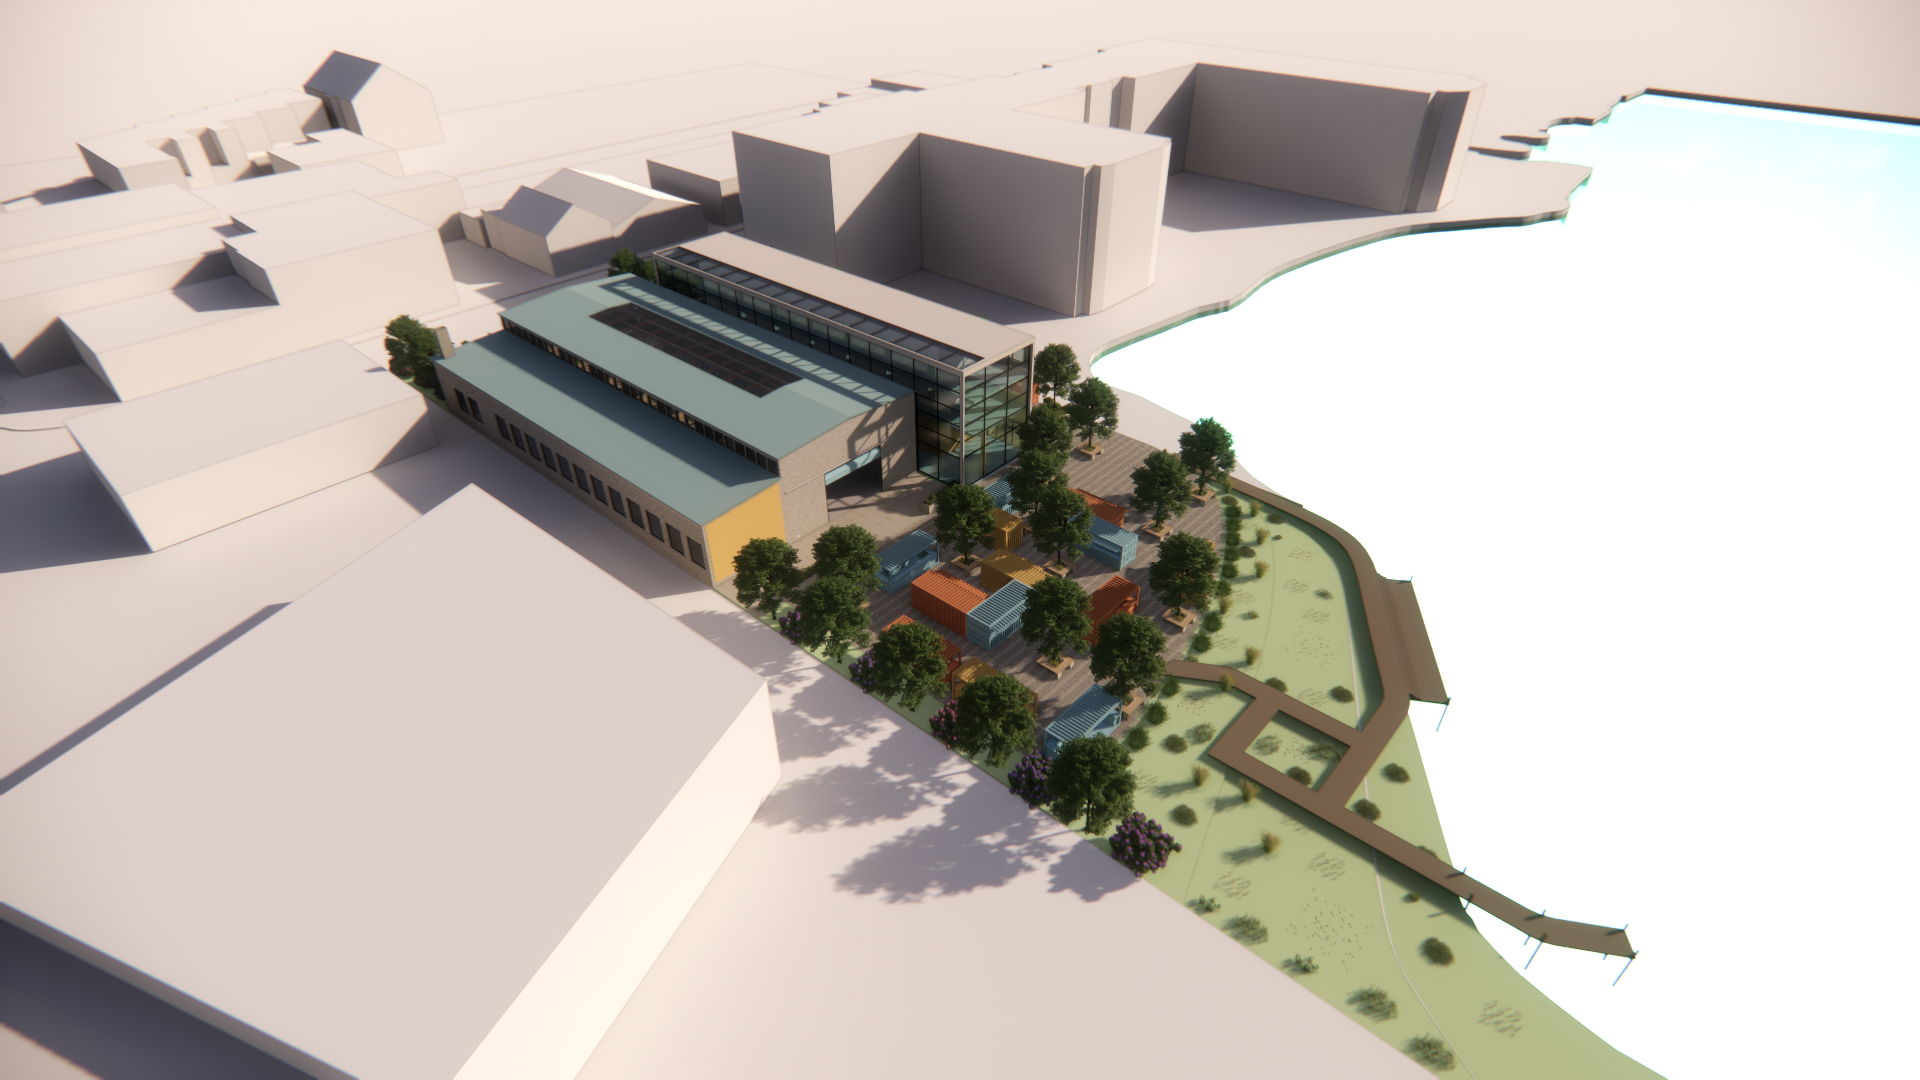
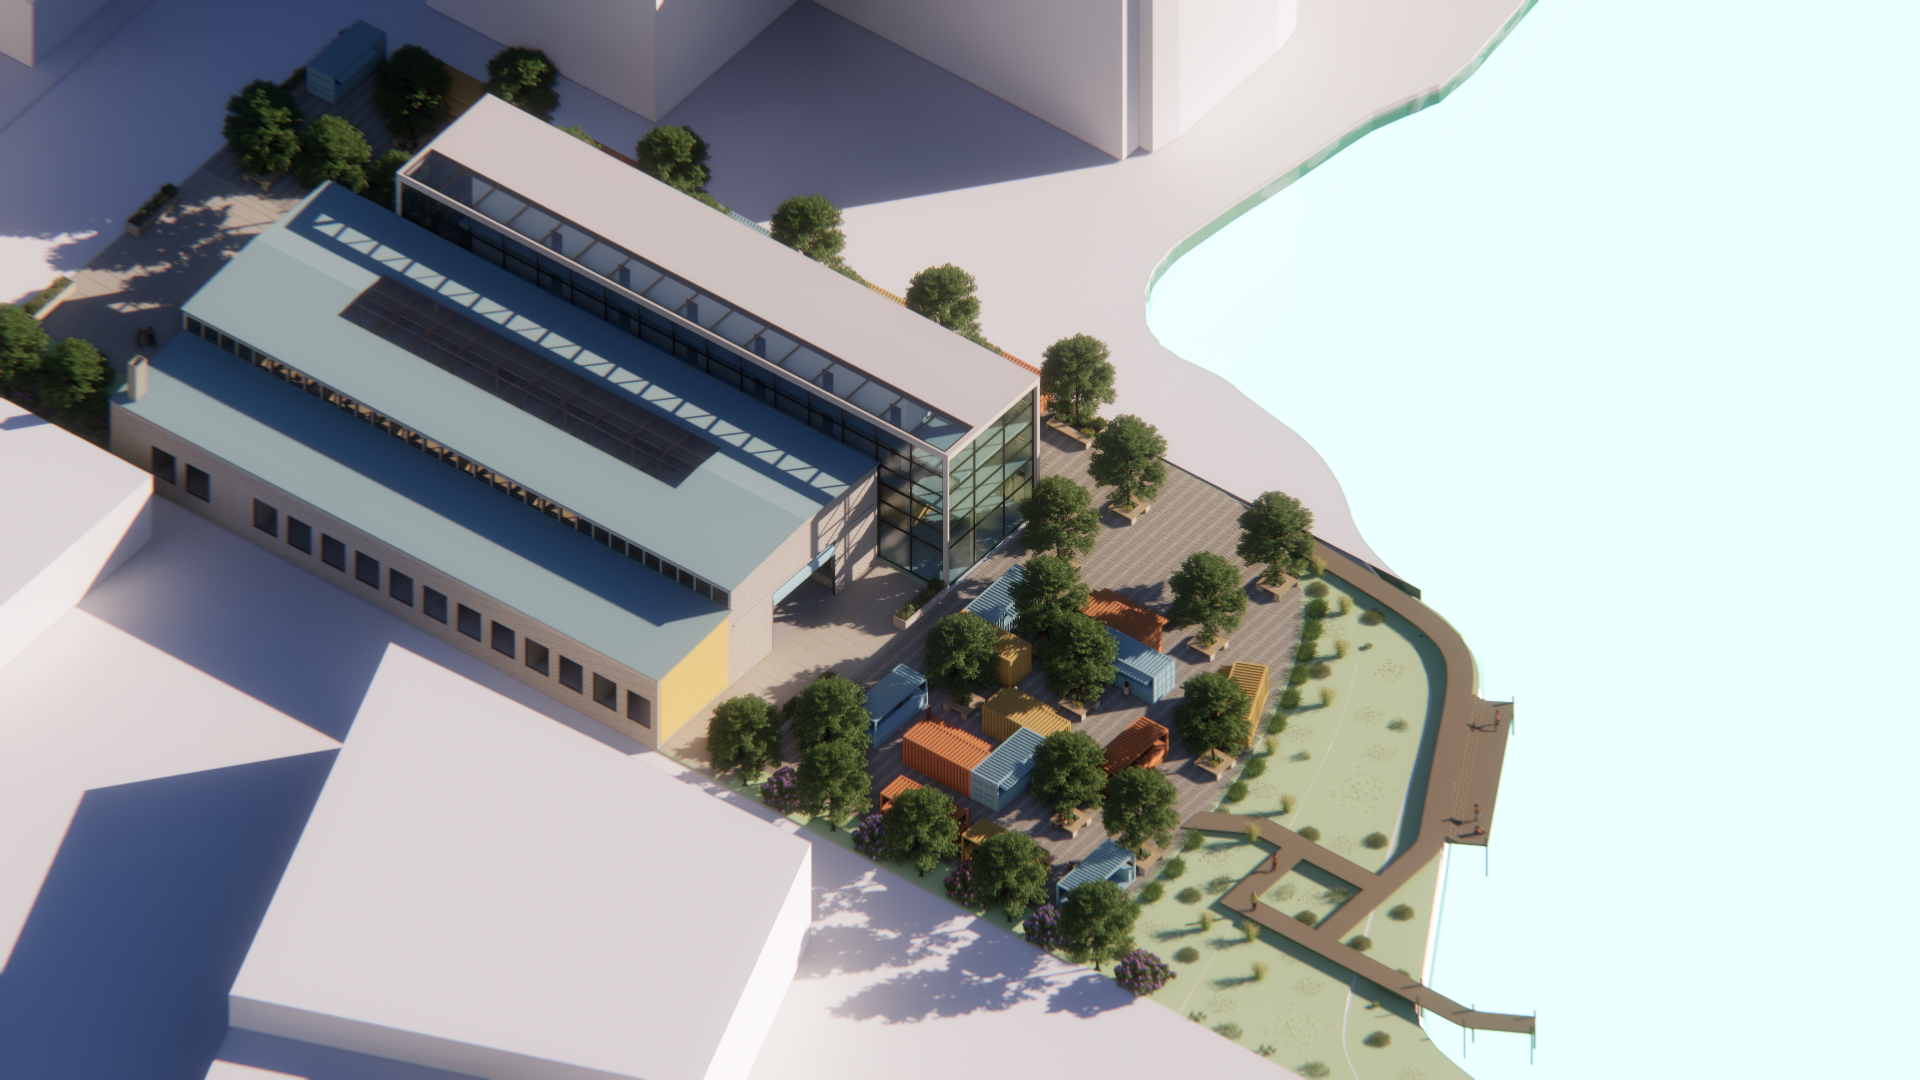
Final Commit

diff --git a/01-projects/Alessandro/index.html b/01-projects/Alessandro/index.html
@@ -129,6 +129,26 @@ font-family: "didot";
   color: rgba(180,180,160,1);
 }
 
+#header12 {
+  margin-top: 25px;
+  margin-bottom: 0px;
+  margin-left: 50px;
+
+  font-family: "verdana";
+  font-weight: "bold";
+  color: rgba(255,255,255,0.75);
+}
+
+#header13 {
+  margin-top: 25px;
+  margin-bottom: 0px;
+  margin-left: 50px;
+
+  font-family: "verdana";
+  font-weight: "bold";
+  color: rgba(255,255,255,0.75);
+}
+
 #pro {
 	margin-top: 25px;
 	margin-left: 400px;
@@ -327,6 +347,11 @@ li a {float: left;}
             <img src="IMAGES/axon.jpg"; style="width: 1050px; margin-left: 185px; margin-top: 25px; margin-bottom: 25px;"> 
       </div>
 
+     <div>
+            <img src="IMAGES/upper.png"; style="width: 623px; margin-left: 50px; margin-top: 25px; margin-bottom: 25px;"> 
+            <img src="IMAGES/studio.png"; style="width: 623px; margin-right: 50px; margin-top: 25px; margin-bottom: 25px; margin-left: 50px;">
+      </div>
+
       <div>
             <img src="IMAGES/siteplan.png"; style="width: 1296px; margin-left: 50px; margin-top: 25px; margin-bottom: 25px;"> 
       </div>
@@ -362,11 +387,16 @@ li a {float: left;}
       </div>
 
 <div id="org">
-    <img src="IMAGES/containers.jpg" style="width: 950px; margin-top: 25px; margin-bottom: 150px; margin-left: 50px">
+    <img src="IMAGES/containers.jpg" style="width: 950px; margin-top: 125px; margin-bottom: 175px; margin-left: 50px">
   </div>
   <div>
-<p style="margin-left: 1085px; margin-right: 50px; margin-bottom: 125px; margin-top: 75px; font-family: didot; color: rgba(22,56,64,0.75);">As time passes, the site will continue to grow and develop, along with the skills of the residents utilizing the fabrication lab. One potential way this may unfold is through the refurbishment of the existing shipping containers on site. The containers could be transformed by the occupants into a variety of typologies to serve different purposes. From vendors for food and drinks, to small shops for locally crafted goods, to open air farm stands that can double as a space to sit and eat when they're free. This not only creates the opportunity for locals to put their fabrication skills into practice, but also to perpetuate the opening and expansion of local businesses through the use of this outdoor marketplace.  </p>
+<p style="margin-left: 1085px; margin-right: 50px; margin-bottom: 200px; margin-top: 175px; font-family: didot; color: rgba(22,56,64,0.75);">As time passes, the site will continue to grow and develop, along with the skills of the residents utilizing the fabrication lab. One potential way this may unfold is through the refurbishment of the existing shipping containers on site. The containers could be transformed by the occupants into a variety of typologies to serve different purposes. From vendors for food and drinks, to small shops for locally crafted goods, to open air farm stands that can double as a space to sit and eat when they're free. This not only creates the opportunity for locals to put their fabrication skills into practice, but also to perpetuate the opening and expansion of local businesses through the use of this outdoor marketplace.  </p>
 </div>
+
+      <div>
+            <img src="IMAGES/back1.png"; style="width: 623px; margin-left: 50px; margin-top: 25px; margin-bottom: 50px;"> 
+            <img src="IMAGES/back3.png"; style="width: 623px; margin-right: 50px; margin-top: 25px; margin-bottom: 50px; margin-left: 50px;">
+      </div>
 
     </div>
 
@@ -385,6 +415,11 @@ li a {float: left;}
 <p style="margin-left: 50px; margin-top: 50px; margin-right: 1085px; margin-bottom: 50px; font-family: didot; color: rgba(150,150,125,1);">There are a variety of ecological factors to take into consideration regarding the design of the site, the most pressing being flooding and coastal erosion at the west end of the side. To address this, I've designed an ecological buffer zone filled with native plantings adapted to flooding and coastal waters. These plantings reflect native ecology and natural adaptability, while the buffer area itself prevents erosion by keeping people at bay. At the same time, a light-touch elevated walking path with a dock and kayak launch allows people to utiize the space and interact with the water in a not obstructive or intrusive way. The walking path connect with the existing walkway of the neighboring site to the south, and the buffer zone has the same propensity to expand along the coast and evolve into a more comprehensive ecological response to coastal flooding and erosion in East Boston. </p>
 </div>
 
+      <div>
+            <img src="IMAGES/back2.png"; style="width: 623px; margin-left: 50px; margin-top: 25px; margin-bottom: 50px;"> 
+            <img src="IMAGES/water.png"; style="width: 623px; margin-right: 50px; margin-top: 25px; margin-bottom: 50px; margin-left: 50px;">
+      </div>
+
     </div>
 
 
@@ -397,6 +432,16 @@ li a {float: left;}
         <div>
 
         </div>
+
+      <div>
+            <img src="IMAGES/front.png"; style="width: 623px; margin-left: 50px; margin-top: 25px; margin-bottom: 25px;"> 
+            <img src="IMAGES/inside.png"; style="width: 623px; margin-right: 50px; margin-top: 25px; margin-bottom: 25px; margin-left: 50px;">
+      </div>
+
+      <div>
+            <img src="IMAGES/interriornew.png"; style="width: 623px; margin-left: 50px; margin-top: 25px; margin-bottom: 50px;"> 
+            <img src="IMAGES/side.png"; style="width: 623px; margin-right: 50px; margin-top: 25px; margin-bottom: 50px; margin-left: 50px;">
+      </div>
 
     </div>
 
@@ -414,6 +459,15 @@ li a {float: left;}
 
     </div>
 
+
+<div style="background-color: rgba(234,153,94,1); padding-top: 25px; padding-bottom: 25px">
+
+    <div 
+      id="header12" style="margin-left: 50px;">   
+       <h2> Thank You </h2>
+    </div>
+   
+</div>
 
 	</body>
 
